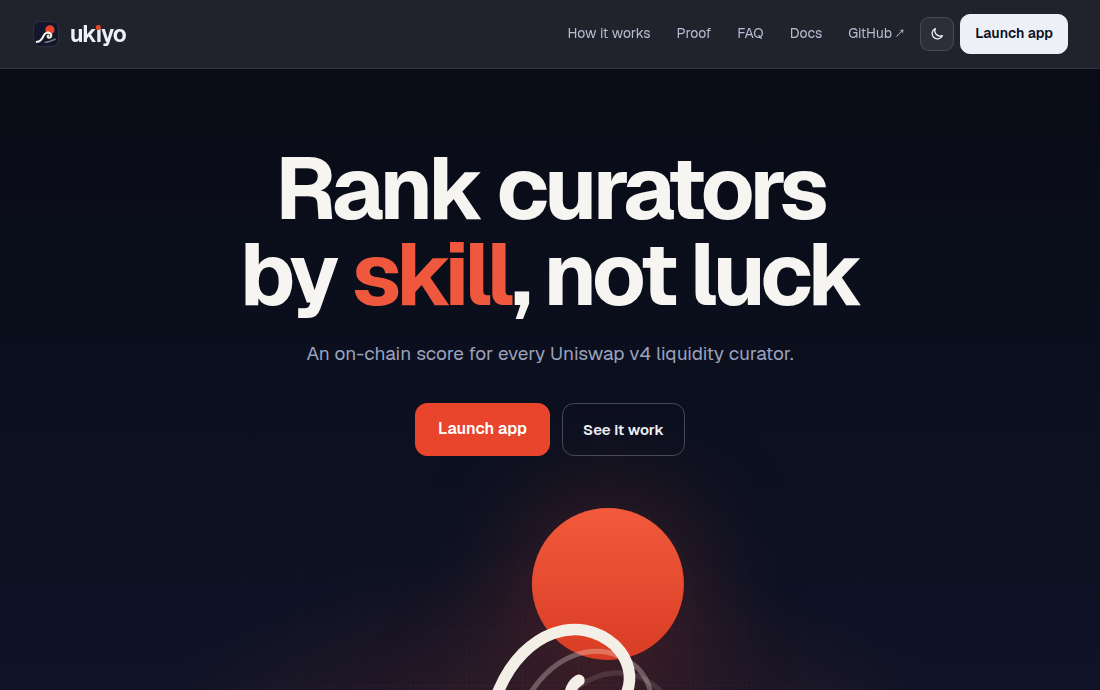
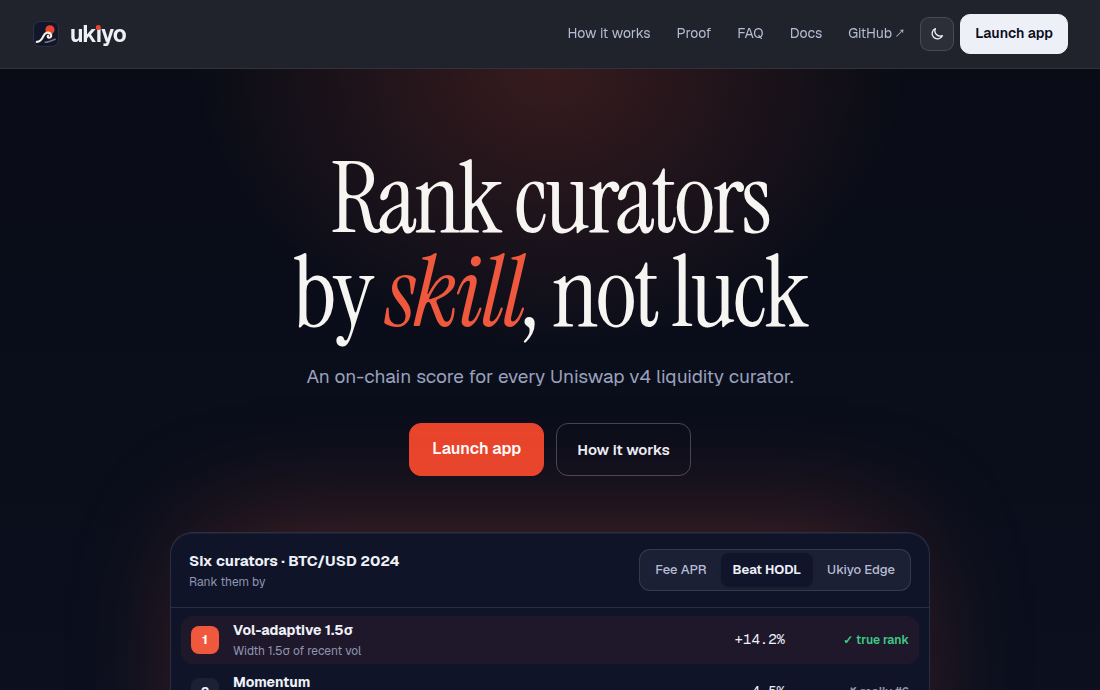
Site: editorial serif for headlines, a hero with no drawing and the live rank card under it
Instrument Serif for the hero, section titles, big numbers and page titles; Geist stays the interface voice. The hero
is one line, one sentence, two buttons and the rank-by card. The live band shows a placeholder, not a false zero, while
swap history loads, and nav buttons on the research page keep their label colour.

diff --git a/web/src/components/landing/landing.css b/web/src/components/landing/landing.css
@@ -804,28 +804,28 @@
 }
 
 .l-hero {
-  --sun: min(420px, 92vw);
   position: relative;
   overflow: hidden;
   text-align: center;
   color: #eef0f8;
-  padding: clamp(72px, 11vh, 120px) 0 calc(var(--sun) * 0.86 + 24px);
+  padding: clamp(72px, 12vh, 124px) 0 88px;
   background:
-    radial-gradient(60% 55% at 50% 100%, rgba(232, 69, 44, 0.22), transparent 70%),
-    linear-gradient(180deg, #090c16 0%, #0d1224 70%, #11162b 100%);
+    radial-gradient(46% 38% at 50% 0%, rgba(240, 88, 61, 0.2), transparent 70%),
+    radial-gradient(60% 40% at 50% 100%, rgba(95, 130, 214, 0.12), transparent 70%),
+    linear-gradient(180deg, #090c16 0%, #0d1224 100%);
 }
 
-/* a faint grid, brightest around the sun */
+/* a faint grid behind the card */
 .l-hero::before {
   content: "";
   position: absolute;
   inset: 0;
   pointer-events: none;
   background:
-    linear-gradient(rgba(238, 240, 248, 0.045) 1px, transparent 1px) 50% 0 / 56px 56px,
-    linear-gradient(90deg, rgba(238, 240, 248, 0.045) 1px, transparent 1px) 50% 0 / 56px 56px;
-  -webkit-mask: radial-gradient(70% 70% at 50% 100%, #000, transparent 75%);
-  mask: radial-gradient(70% 70% at 50% 100%, #000, transparent 75%);
+    linear-gradient(rgba(238, 240, 248, 0.04) 1px, transparent 1px) 50% 0 / 64px 64px,
+    linear-gradient(90deg, rgba(238, 240, 248, 0.04) 1px, transparent 1px) 50% 0 / 64px 64px;
+  -webkit-mask: radial-gradient(60% 55% at 50% 85%, #000, transparent 75%);
+  mask: radial-gradient(60% 55% at 50% 85%, #000, transparent 75%);
 }
 
 .hero-in {
@@ -833,17 +833,20 @@
   z-index: 1;
 }
 
-.l-hero h1 {
+.landing .l-hero h1 {
+  font-family: var(--display);
+  font-weight: 400;
   color: #f6f5f1;
-  font-weight: 700;
-  letter-spacing: -0.05em;
-  font-size: clamp(46px, 8vw, 104px);
-  line-height: 0.98;
+  letter-spacing: -0.025em;
+  font-size: clamp(52px, 9vw, 116px);
+  line-height: 0.95;
   margin: 0 auto 22px;
 }
 
 .l-hero h1 em {
+  font-style: italic;
   color: #f0583d;
+  margin-right: -0.05em;
 }
 
 .l-hero .l-lede {
@@ -855,112 +858,44 @@
 
 .l-hero .l-cta {
   justify-content: center;
-  margin-top: 34px;
+  margin-top: 32px;
 }
 
-/* the mark itself at scale: the sun and the wave curling into a hook */
-.hero-sun {
-  position: absolute;
-  left: 50%;
-  bottom: 0;
-  width: var(--sun);
-  height: calc(var(--sun) * 50 / 58);
-  transform: translateX(-50%);
-  filter: drop-shadow(0 0 60px rgba(232, 69, 44, 0.3));
-  pointer-events: none;
+/* the product, rising out of the bottom of the hero */
+.hero-card {
+  max-width: 760px;
+  margin: 56px auto 0;
+  --ink: #eef0f8;
+  --ink-2: #b6bcd3;
+  --muted: #8f96b2;
+  --card: rgba(16, 21, 42, 0.92);
+  --card-2: rgba(238, 240, 248, 0.06);
+  --line: rgba(238, 240, 248, 0.12);
+  --seal: #f0583d;
+  --good: #3fcb86;
+  --bad: #ff6b57;
 }
 
-/* Try it: the rank-by card in its own short section under the hero */
-.l-try {
-  padding: 96px 0 24px;
+.hero-card .hr-card {
+  box-shadow: 0 -30px 120px -40px rgba(240, 88, 61, 0.35), inset 0 1px 0 rgba(255, 255, 255, 0.06);
 }
 
-.l-try-in {
-  display: grid;
-  grid-template-columns: minmax(0, 0.8fr) minmax(0, 1.2fr);
-  gap: 56px;
-  align-items: center;
-}
-
-.l-try h2 {
-  font-size: clamp(30px, 4vw, 44px);
-  line-height: 1.05;
-  margin: 0 0 14px;
-}
-
-.l-try .hero-chip {
-  color: var(--ink);
-  background: var(--card);
-  border-color: var(--line);
-}
-
-.l-try .hero-chip span,
-.l-try .hero-chip small {
-  color: var(--muted);
-}
-
-@media (max-width: 900px) {
-  .l-try-in {
-    grid-template-columns: minmax(0, 1fr);
-    gap: 32px;
-  }
-}
-
-.hero-chips {
-  display: flex;
-  flex-wrap: wrap;
-  gap: 10px;
-  margin-top: 28px;
-}
-
-.hero-chip {
-  display: flex;
-  flex-direction: column;
-  gap: 2px;
-  text-decoration: none;
-  color: var(--ink);
-  background: var(--card);
-  border: 1px solid var(--line);
-  border-radius: 12px;
-  padding: 10px 14px;
-  flex: 1 1 0;
-  min-width: 0;
-  max-width: 220px;
-}
-
-a.hero-chip:hover {
-  border-color: rgba(238, 240, 248, 0.28);
-}
-
-.hero-chip span {
-  font-size: 12px;
-  color: #b6bcd3;
-  display: inline-flex;
-  align-items: center;
-  gap: 6px;
-}
-
-.hero-chip b {
-  font-size: 17px;
+/* Section headings and the big numbers share the hero's serif */
+.landing .l-section h2,
+.landing .l-dark h2,
+.landing .l-final h2,
+.landing .l-numbers .big-num,
+.landing .l-live .big-num {
+  font-family: var(--display);
+  font-weight: 400;
   letter-spacing: -0.02em;
-  font-variant-numeric: tabular-nums;
 }
 
-.hero-chip small {
-  font-size: 12px;
-  color: #8f96b2;
-}
-
-.hero-chip em {
-  font-style: normal;
-}
-
-.hero-chip em.arb {
-  color: var(--bad);
-}
-
-.hero-chip em.user {
-  color: var(--good);
+.landing .l-section h2,
+.landing .l-dark h2,
+.landing .l-final h2 {
+  font-size: clamp(36px, 5vw, 58px);
+  line-height: 1.02;
 }
 
 /* Rank-by card */
@@ -1364,9 +1299,4 @@ a.hero-chip:hover {
   .bx-chart svg {
     min-width: 600px;
   }
-}
-
-.l-try .l-sub {
-  text-align: left;
-  margin: 0;
 }

diff --git a/web/src/app/layout.tsx b/web/src/app/layout.tsx
@@ -1,12 +1,14 @@
 import type { Metadata, Viewport } from "next";
-import { Geist, Geist_Mono } from "next/font/google";
+import { Geist, Geist_Mono, Instrument_Serif } from "next/font/google";
 import "./globals.css";
 
 const sans = Geist({ subsets: ["latin"], variable: "--font-sans" });
 const mono = Geist_Mono({ subsets: ["latin"], variable: "--font-mono" });
+// Headlines and the big numbers: an editorial serif, the printed voice next to Geist's interface voice.
+const display = Instrument_Serif({ subsets: ["latin"], weight: "400", style: ["normal", "italic"], variable: "--font-display" });
 
-// Where the site is published (GitHub Pages once the repository is public); link previews need absolute URLs.
-const SITE = process.env.NEXT_PUBLIC_SITE_URL || "https://abhist17.github.io/ukiyo/";
+// Where the site is published (Vercel; set at build time by scripts/deploy-vercel.sh); link previews need absolute URLs.
+const SITE = process.env.NEXT_PUBLIC_SITE_URL || "https://ukiyo-ochre.vercel.app/";
 
 export const metadata: Metadata = {
   metadataBase: new URL(SITE),
@@ -34,7 +36,7 @@ const themeScript = `try{var t=localStorage.getItem("ukiyo-theme");if(t==="light
 
 export default function RootLayout({ children }: { children: React.ReactNode }) {
   return (
-    <html lang="en" className={`${sans.variable} ${mono.variable}`} suppressHydrationWarning>
+    <html lang="en" className={`${sans.variable} ${mono.variable} ${display.variable}`} suppressHydrationWarning>
       <head>
         <script dangerouslySetInnerHTML={{ __html: themeScript }} />
       </head>

diff --git a/web/src/app/page.tsx b/web/src/app/page.tsx
@@ -2,8 +2,6 @@ import Link from "next/link";
 import { Logo, Wordmark } from "@/components/Logo";
 import { ThemeToggle } from "@/components/ThemeToggle";
 import { HeroRank } from "@/components/landing/HeroRank";
-import { HeroSun } from "@/components/landing/HeroSun";
-import { HeroLive } from "@/components/landing/HeroLive";
 import { LiveNumbers } from "@/components/landing/LiveNumbers";
 import { BlockExplainer } from "@/components/landing/BlockExplainer";
 import { RankShift } from "@/components/RankShift";
@@ -105,20 +103,11 @@ export default function Home() {
           <p className="l-lede">An on-chain score for every Uniswap v4 liquidity curator.</p>
           <div className="l-cta">
             <Link className="btn primary" href="/app/">Launch app</Link>
-            <a className="btn ghost-light" href="#try">See it work</a>
+            <a className="btn ghost-light" href="#how">How it works</a>
           </div>
-        </div>
-        <HeroSun />
-      </section>
-
-      <section className="l-try" id="try">
-        <div className="wrap l-try-in">
-          <div>
-            <h2>Same six curators. Three yardsticks.</h2>
-            <p className="l-sub">Only <b>Edge</b> puts them in their true order.</p>
-            <HeroLive />
+          <div className="hero-card">
+            <HeroRank />
           </div>
-          <HeroRank />
         </div>
       </section>
 

diff --git a/web/src/app/globals.css b/web/src/app/globals.css
@@ -32,6 +32,7 @@
   --serif: var(--font-sans), system-ui, sans-serif;
   --sans: var(--font-sans), system-ui, sans-serif;
   --mono: var(--font-mono), ui-monospace, monospace;
+  --display: var(--font-display), Georgia, serif;
   color-scheme: light;
 }
 
@@ -979,4 +980,28 @@ details.table-view th {
 .wordmark-link {
   text-decoration: none;
   display: inline-flex;
+}
+
+/* Page titles share the landing page's editorial serif; interface headings stay in Geist. */
+.research-hero h1,
+.landing .docs-body h1 {
+  font-family: var(--display);
+  font-weight: 400;
+  letter-spacing: -0.02em;
+  line-height: 1.02;
+}
+
+.research-hero h1 {
+  font-size: clamp(40px, 6vw, 68px);
+}
+
+.landing .docs-body h1 {
+  font-size: clamp(44px, 6vw, 64px);
+}
+
+/* A button inside a nav keeps its own colours (the nav's link rule would otherwise grey its label). */
+.nav a.btn,
+.nav a.btn:hover {
+  color: var(--paper);
+  background: var(--ink);
 }

diff --git a/web/src/components/landing/LiveNumbers.tsx b/web/src/components/landing/LiveNumbers.tsx
@@ -30,7 +30,11 @@ function Numbers() {
           fees the hook refused to count as income.
         </p>
         <div className="num-row">
-          <div><b>{swaps.length.toLocaleString("en-US")}</b><span>swaps classified ({arb.toLocaleString("en-US")} arbitrage)</span></div>
+          <div>
+            {/* the swap history loads in 1,000-block chunks: show a placeholder, never a false zero */}
+            <b>{logs ? swaps.length.toLocaleString("en-US") : "…"}</b>
+            <span>{logs ? `swaps classified (${arb.toLocaleString("en-US")} arbitrage)` : "reading swap history"}</span>
+          </div>
           <div><b>{usd(userFees)}</b><span>user fees credited</span></div>
           <div><b>{compactUsd(live.tvl)}</b><span>in curator vaults</span></div>
           <div><b>{compactUsd(bonds)}</b><span>posted as LVR bonds</span></div>
